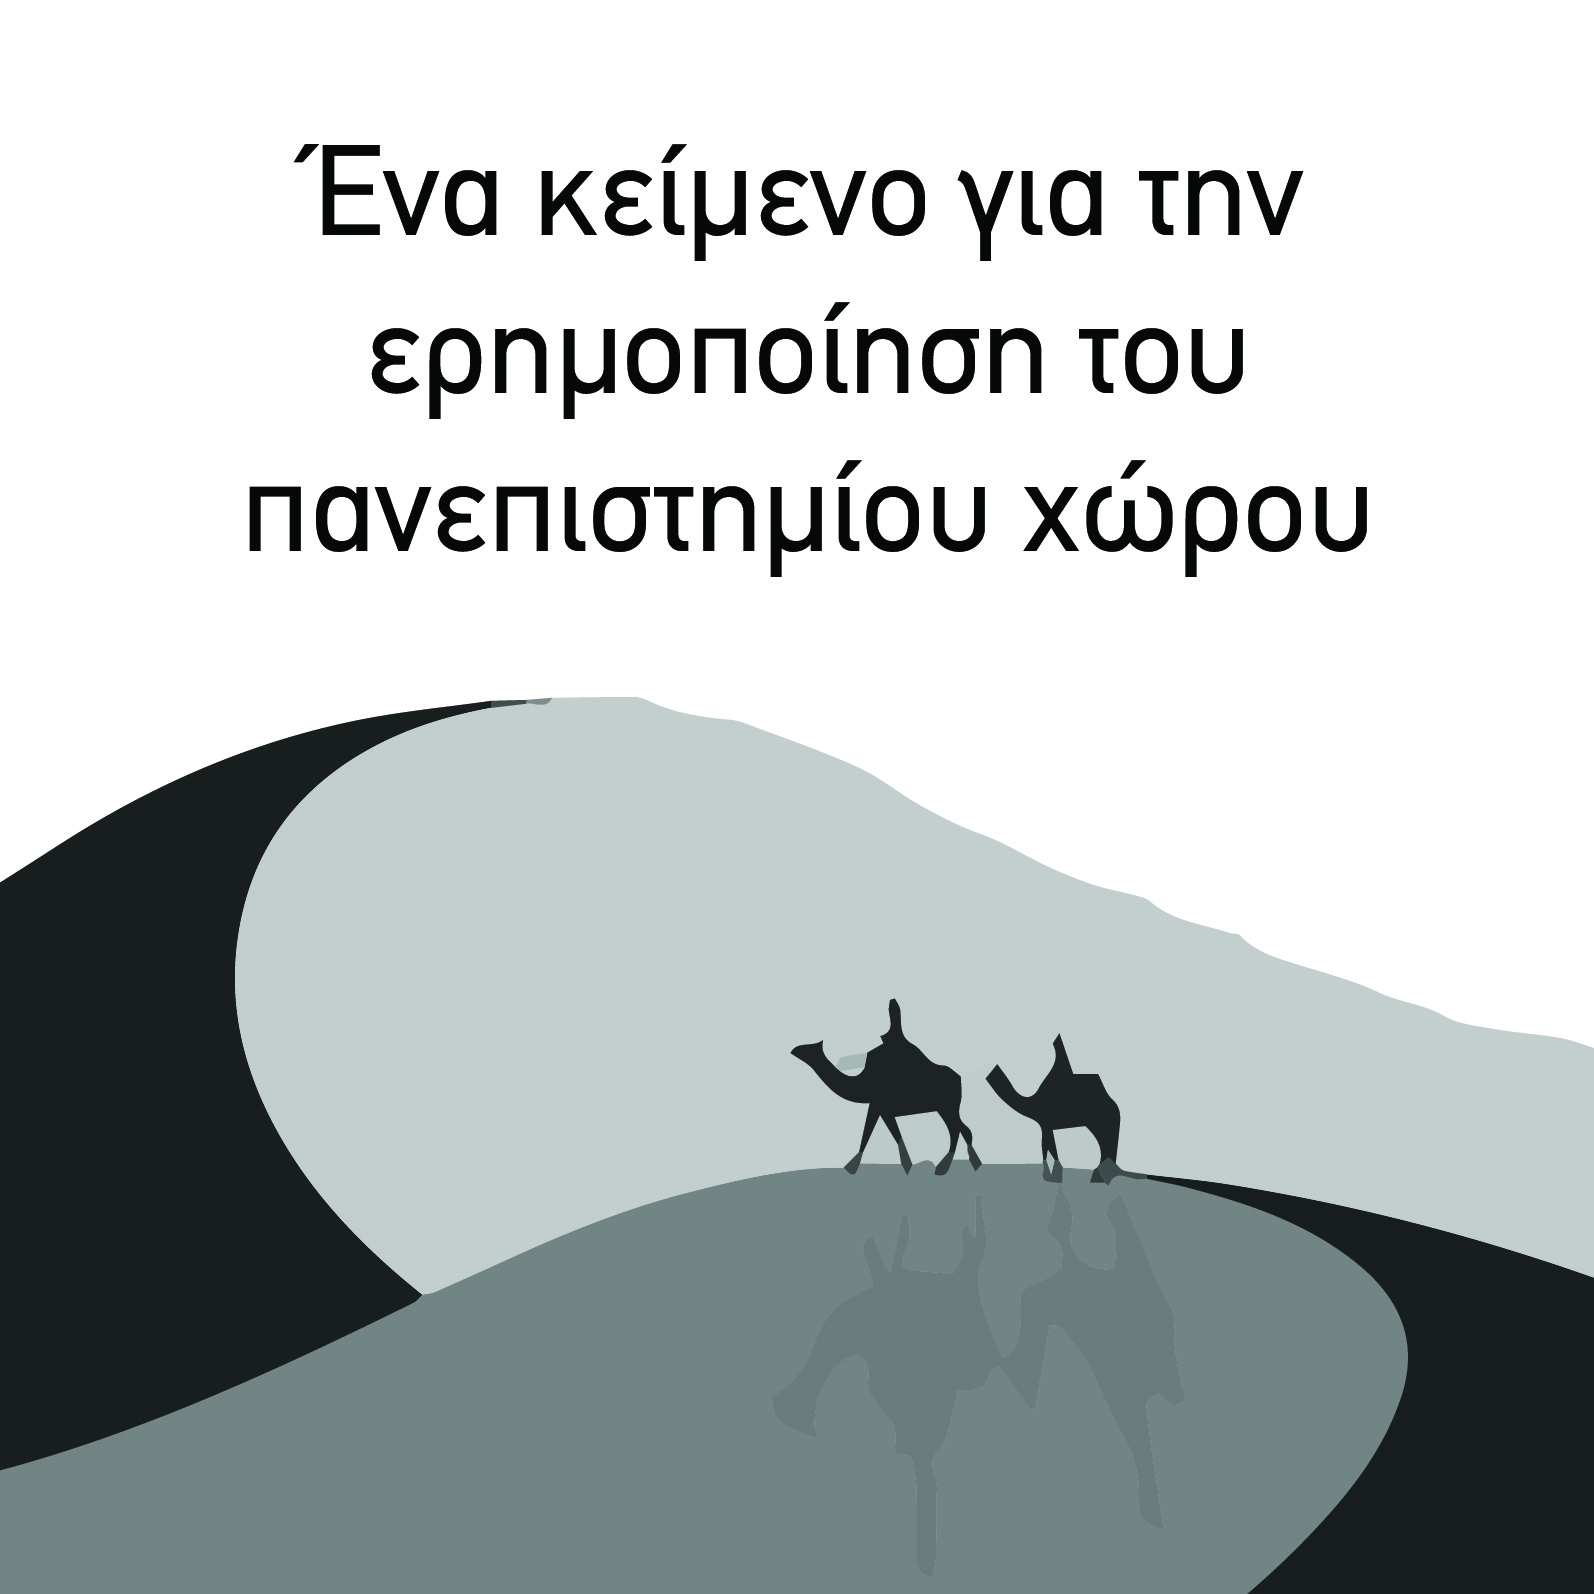
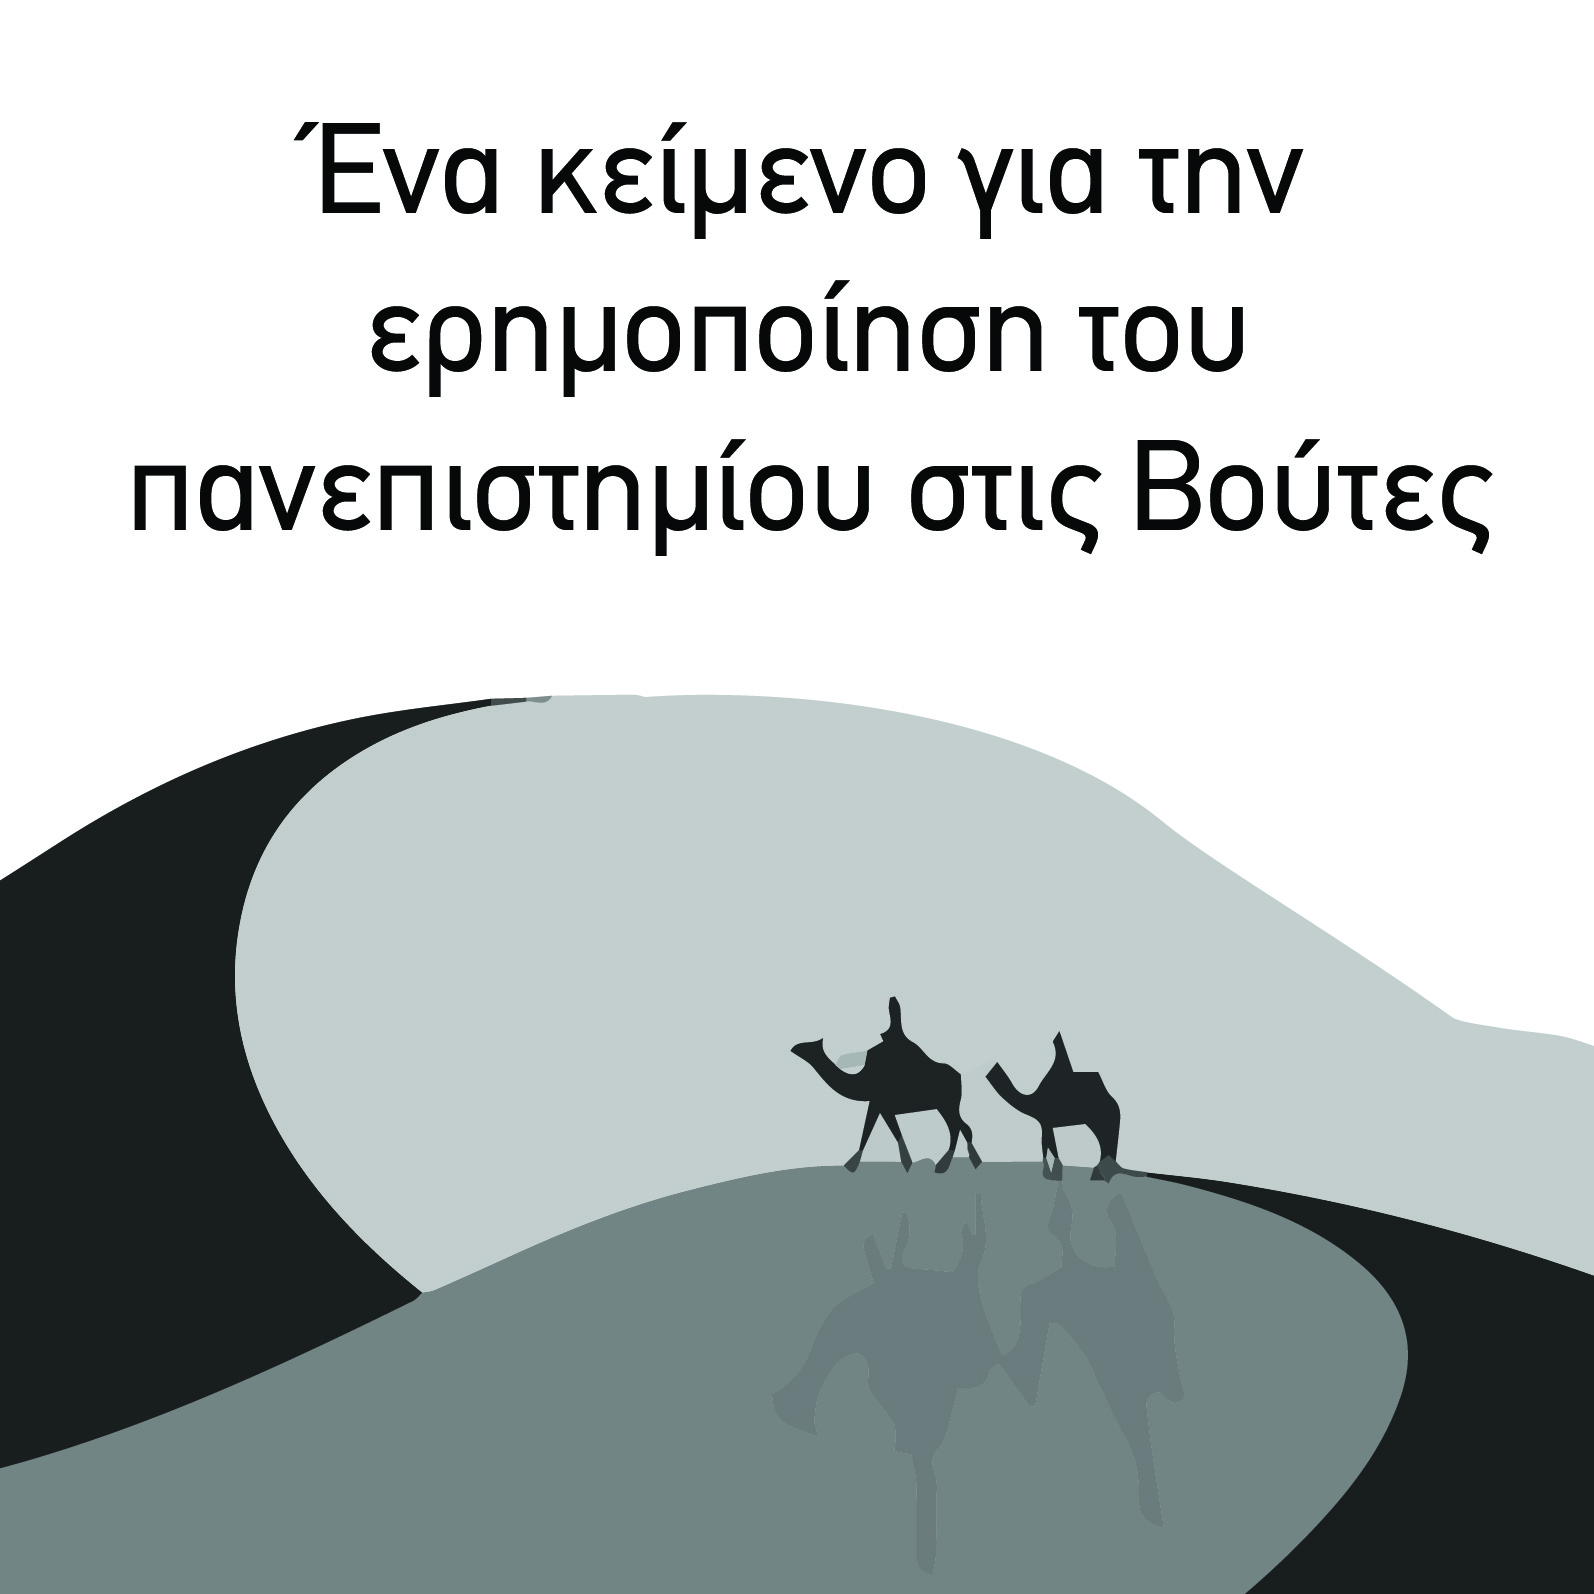
added nevada article

diff --git a/src/views/Article.js b/src/views/Article.js
@@ -92,6 +92,12 @@ class Article extends Component {
             .then(text  => {
                 data.article.body = text;
                 data.article.cover = data.article.cover ? data.article.cover : default_article_cover;
+                data.meta = get_default_meta({
+                    title: data.article.title,
+                    description: data.article.short_description,
+                    type: 'article',
+                    image: data.article.og_cover
+                })
                 this.setState(data);
                 window.dispatchEvent(new CustomEvent('new_page'))
             })
@@ -138,21 +144,21 @@ class Article extends Component {
                                 </Row>
                             </div>
                         </div>
+                        <br/>
+                        <Row>
+                        <Col className="ml-auto mr-auto text-left" md={12}>
+                                {this.state.article.attachment &&
+                                <p className="attachments">
+                                    <a href={this.state.article.attachment}>το κείμενο σε εκτυπώσιμη μορφή</a>
+                                </p>
+                                }
+                            </Col>
+                        </Row>
                         <Row>
                             <Col className="ml-auto mr-auto text-left" md="12">
                                 <div className="markD">
                                     <ReactMarkdown plugins={[[gfm]]} children={this.state.article.body}/>
                                 </div>
-                            </Col>
-                        </Row>
-                        <br/>
-                        <Row>
-                            <Col className="ml-auto mr-auto text-left" md="12">
-                                {this.state.article.attachment &&
-                                <h5 className="attachments">
-                                    <a href={this.state.article.attachment}>Το κείμενο σε εκτυπώσιμη μορφή</a>
-                                </h5>
-                                }
                             </Col>
                         </Row>
                         <br/>

diff --git a/src/data/articles.js b/src/data/articles.js
@@ -1,7 +1,7 @@
 export const articles = [
     {
         src: require('data/articles/nevada.md'),
-        title: 'ΥΠΑΡΧΕΙ ΚΑΛΥΤΕΡΗ “ΝΕΒΑ∆Α” ΚΑΙ ΤΗ ΘΕΛΟΥΜΕ',
+        title: 'Υπάρχει καλύτερη "Νεβάδα" και τη θέλουμε',
         created_at: 'Mon, 23 May 2022 20:00:00 GMT',
         tags: [ 
             { id: 0, name: 'πανεπιστήμιο'},
@@ -10,6 +10,7 @@ export const articles = [
             ],
         short_description: 'Ένα κείµενο για την ερηµοποίηση του πανεπιστηµιακού χώρου και την ανάγκη επανοικειοποίησης του',
         cover: require('data/articles/covers/nevada-cover.jpg'),
+        og_cover: require('data/articles/covers/nevada-cover-og.jpg'),
         attachment: require('data/articles/attachments/nevada.pdf'),
         id: 6,
     },
